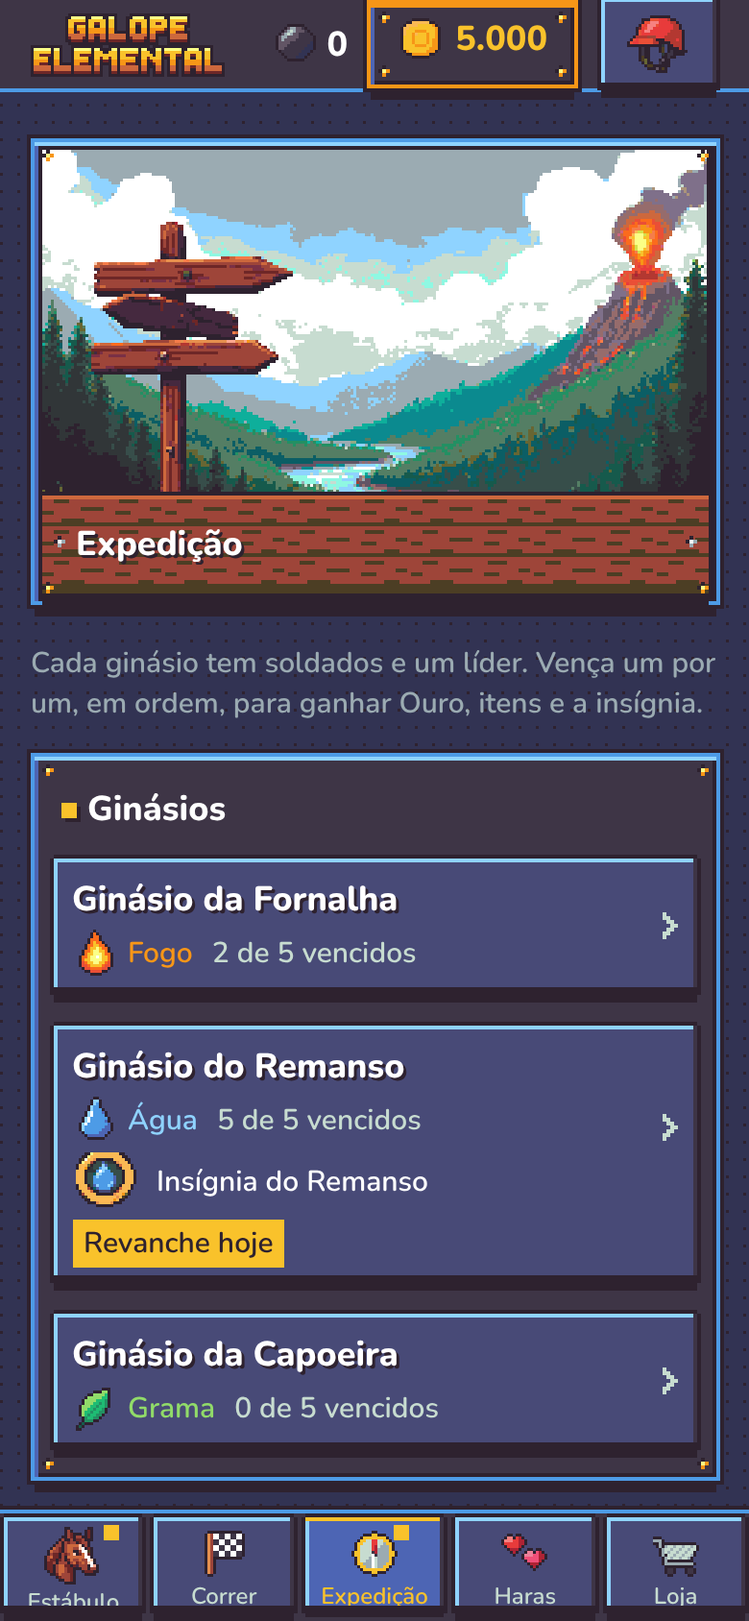
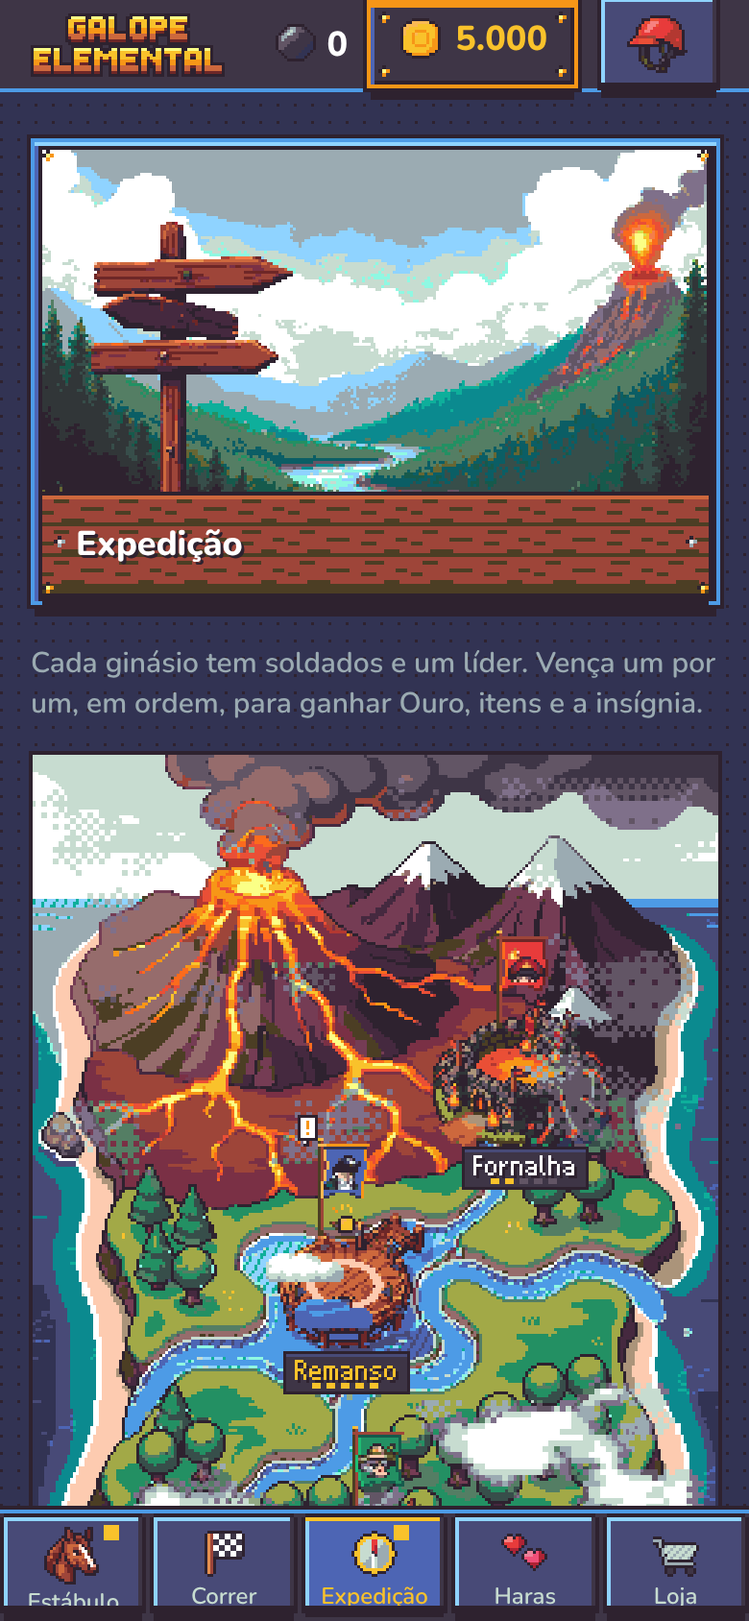
fecha o bloco A do mapa: wiki, capturas final-24 e final-25, memória e notas do plano
Claude-Session: https://claude.ai/code/session_01MGExzNonug97azLPSXwF1p

diff --git a/prototype/dist/wiki.html b/prototype/dist/wiki.html
@@ -194,7 +194,7 @@ dd.num { font: 400 var(--t-num)/1 var(--fonte-rotulo); color: var(--ouro); }
 <h3>Ciclo de uma corrida</h3>
 <ol class="passos"><li><strong>Escolher a montaria.</strong> No começo você escolhe uma das 3 iniciais (Brasa, Maré e Ipê) e recebe 500 de Ouro e o equipamento inicial (Sela de Couro Cru e Ferradura Leve, já equipado).</li><li><strong>Procurar sala.</strong> Na aba Correr você escolhe a entrada (50, 100 ou 250 de Ouro). A sala tem de 4 a 8 corredores: você e bots com Poder perto do seu. Pista, clima e rivais saem da seed da sala e não mudam até você correr.</li><li><strong>Pagar a entrada.</strong> Só depois de &quot;Largar!&quot; a corrida é simulada; o resultado nunca é calculado antes.</li><li><strong>Corrida automática.</strong> O jóquei dosa o ritmo pela estamina; skills disparam nos gatilhos; o Dado da Sorte rola em 1/3 e 2/3 da pista e pode virar o clima; a Garra decide a reta final.</li><li><strong>Prêmio e XP.</strong> A casa fica com 10% do pote e o resto vai para os primeiros colocados. Todos ganham XP pela colocação. No pódio de corrida valendo pode cair um Pergaminho de técnica (ver Skills, Rank das skills).</li></ol>
 <h3>Abas do jogo</h3>
-<dl class="pares"><dt>Estábulo</dt><dd>o cartão da recompensa do dia, no topo; suas montarias (3 vagas no começo, até 8), status, skills (com o rank de cada uma) e equipamento; escolher a ativa.</dd><dt>Correr</dt><dd>escolher a entrada (50, 100 ou 250 de Ouro) e procurar corrida; sem Ouro para a menor entrada, treino gratuito.</dd><dt>Expedição</dt><dd>os 3 ginásios (Ginásio da Fornalha, Ginásio do Remanso e Ginásio da Capoeira), cada um com quantas etapas já venceu (&quot;N de 5 vencidos&quot;), a insígnia conquistada e &quot;Revanche hoje&quot; quando a revanche do líder está livre (o ponto na aba avisa) ou &quot;Revanche amanhã&quot; depois de tentada a de hoje. Tocar no ginásio abre a trilha: as 5 etapas de baixo para cima (Soldado 1, Soldado 2, Soldado 3, Soldado 4 e o Líder), cada uma vencida, próxima (a única que se toca) ou fechada (&quot;Vença a etapa anterior&quot;), e o ponto fraco escrito (&quot;Ponto fraco: Água vence Fogo&quot;); ao abrir, a trilha rola o mínimo para a etapa que se pode tocar aparecer inteira. <strong>Preparo:</strong> a etapa próxima mostra os cavalos do adversário (nível, estrelas, elemento e Poder), a pista da casa, a entrada e o prêmio da 1ª vitória; em &quot;Seu time&quot; você toca nos seus cavalos na ordem em que vão correr, até o tamanho do time do adversário (tocar de novo tira). Cada linha diz &quot;Vantagem&quot; ou &quot;Desvantagem&quot; contra o elemento do ginásio; com uma sala de corrida aberta (valendo ou treino), o cavalo ativo fica de fora, com o motivo escrito. <strong>Pagar:</strong> &quot;Desafiar (N de Ouro)&quot; cobra a entrada e só então o desafio é simulado; sem time, sem Ouro (o reservado para a sala aberta não conta) ou com a mochila cheia do item do prêmio, o botão fica apagado com o motivo. <strong>Duelos:</strong> cada duelo passa na tela de corrida, com 2 raias: a placa diz &quot;Duelo N&quot; (nunca quantos serão), e uma linha diz a vantagem de elemento e o fôlego de quem larga cansado; &quot;Pular&quot; termina o duelo (depois da chegada ele diz &quot;Continuar&quot;) e &quot;Pular tudo&quot; vai direto ao resumo. Entre um duelo e outro, um cartão diz como foi o seu cavalo e por quantos metros, quem saiu e quem entra, a faixa do cansaço com o fôlego de quem ficou (&quot;Vitória apertada (menos de 1 m): … larga com 75% do fôlego&quot;) e a vantagem do próximo duelo, com &quot;Próximo duelo&quot; e &quot;Pular tudo&quot;. Os metros são truncados para baixo (7,6 m aparece como 7 m); abaixo de 1 m, &quot;menos de 1 m&quot;. <strong>Resumo:</strong> cada duelo com &quot;Você venceu&quot; ou &quot;Você perdeu&quot;, os metros e o fôlego de quem seguiu; a entrada, o prêmio e os itens; o XP de cada cavalo (os níveis e as skills que aprendeu, ou &quot;não correu&quot;); a insígnia e a etapa liberada. Perdendo, &quot;Tentar de novo&quot; volta ao preparo com o mesmo time; sempre há &quot;Voltar à trilha&quot;. <strong>Revanche:</strong> depois da insígnia, a etapa do líder vira a revanche, uma vez por dia: &quot;Revanche hoje&quot;, com a entrada de 50 de Ouro e o prêmio de hoje do rodízio; tentada a de hoje, a etapa diz &quot;Feita hoje&quot; e &quot;Revanche de hoje feita. Volte amanhã.&quot;, e a revanche perdida não tem &quot;Tentar de novo&quot;. <strong>Treino AFK:</strong> na trilha, cada oponente já vencido tem &quot;Treinar (AFK)&quot;, que abre a escolha do treino (oponente, dificuldade, vaga e cavalo). O cartão &quot;Treino AFK&quot; da aba abre as vagas (o cavalo, o oponente, a chance de vitória medida, a corrida em curso e a última; Assistir, Trocar e Tirar; &quot;Abrir vaga&quot; com o preço) e o baú (&quot;Coletar tudo&quot;); o cartão &quot;Bestiário&quot; abre as páginas dos ginásios (ver Corrida AFK). Embaixo, a vitrine de 6 cavalos selvagens (a captura ainda não existe no protótipo).</dd><dt>Haras</dt><dd>cruzar com um reprodutor de aluguel ou com outra montaria sua, ou fazer a Troca.</dd><dt>Loja</dt><dd>em <strong>Comprar</strong>, os itens de uso (Torrão de açúcar, Manual de doma, Cupom de troca de skill e Estrela de treino) com Ouro, um toque por compra, dentro do limite do dia; em <strong>Mochila</strong>, os 6 itens, quantos você tem de cada e o botão Usar (o Pergaminho de técnica não tem Usar: é gasto ao subir rank, na aba Skills do cavalo) e, embaixo, os itens do treino AFK por grupo (comidas, com o Usar e a escolha do cavalo; materiais; Pergaminho de reforja; troféus); também peças de equipamento (menos as de raridade Lendário) e Pedras Negras.</dd><dt>Perfil (o botão do cabeçalho)</dt><dd>as estatísticas (corridas, vitórias, pódios e prêmios), o Ouro e quantas montarias você tem; as insígnias dos ginásios (&quot;Insígnias (N de 3)&quot;, as 3 na ordem Insígnia da Fornalha, Insígnia do Remanso e Insígnia da Capoeira: a conquistada com o ícone, o nome e o bônus; a que falta apagada, com &quot;Vença o líder do …&quot;); o seu jóquei (seda e capacete); as animações; e &quot;Recomeçar com outro inicial&quot;.</dd></dl>
+<dl class="pares"><dt>Estábulo</dt><dd>o cartão da recompensa do dia, no topo; suas montarias (3 vagas no começo, até 8), status, skills (com o rank de cada uma) e equipamento; escolher a ativa.</dd><dt>Correr</dt><dd>escolher a entrada (50, 100 ou 250 de Ouro) e procurar corrida; sem Ouro para a menor entrada, treino gratuito.</dd><dt>Expedição</dt><dd>os 3 ginásios (Ginásio da Fornalha, Ginásio do Remanso e Ginásio da Capoeira), cada um com quantas etapas já venceu (&quot;N de 5 vencidos&quot;), a insígnia conquistada e &quot;Revanche hoje&quot; quando a revanche do líder está livre (o ponto na aba avisa) ou &quot;Revanche amanhã&quot; depois de tentada a de hoje. Em cima, o mapa da ilha com os três ginásios no lugar deles, vivo (água, lava, nuvens, fumaça do vulcão), com névoa sobre o que ainda não tem a insígnia (só visual) e, em cada ginásio, o estandarte do líder, as etapas vencidas, a insígnia e &quot;!&quot; na revanche livre; tocar num ginásio do mapa é o mesmo que tocar no cartão dele, e a ida e a volta são uma viagem curta (aproximação e íris; direta com movimento reduzido). Tocar no ginásio abre a trilha: as 5 etapas de baixo para cima (Soldado 1, Soldado 2, Soldado 3, Soldado 4 e o Líder), cada uma vencida, próxima (a única que se toca) ou fechada (&quot;Vença a etapa anterior&quot;), e o ponto fraco escrito (&quot;Ponto fraco: Água vence Fogo&quot;); ao abrir, a trilha rola o mínimo para a etapa que se pode tocar aparecer inteira. No mapa da trilha, a pista de terra está pintada até a etapa da vez e o seu cavalo ativo espera ao lado dela; depois de uma vitória, ao voltar para a trilha, a pista se pinta até a etapa nova e o cavalo trota até lá. <strong>Preparo:</strong> a etapa próxima mostra os cavalos do adversário (nível, estrelas, elemento e Poder), a pista da casa, a entrada e o prêmio da 1ª vitória; em &quot;Seu time&quot; você toca nos seus cavalos na ordem em que vão correr, até o tamanho do time do adversário (tocar de novo tira). Cada linha diz &quot;Vantagem&quot; ou &quot;Desvantagem&quot; contra o elemento do ginásio; com uma sala de corrida aberta (valendo ou treino), o cavalo ativo fica de fora, com o motivo escrito. <strong>Pagar:</strong> &quot;Desafiar (N de Ouro)&quot; cobra a entrada e só então o desafio é simulado; sem time, sem Ouro (o reservado para a sala aberta não conta) ou com a mochila cheia do item do prêmio, o botão fica apagado com o motivo. <strong>Duelos:</strong> cada duelo passa na tela de corrida, com 2 raias: a placa diz &quot;Duelo N&quot; (nunca quantos serão), e uma linha diz a vantagem de elemento e o fôlego de quem larga cansado; &quot;Pular&quot; termina o duelo (depois da chegada ele diz &quot;Continuar&quot;) e &quot;Pular tudo&quot; vai direto ao resumo. Entre um duelo e outro, um cartão diz como foi o seu cavalo e por quantos metros, quem saiu e quem entra, a faixa do cansaço com o fôlego de quem ficou (&quot;Vitória apertada (menos de 1 m): … larga com 75% do fôlego&quot;) e a vantagem do próximo duelo, com &quot;Próximo duelo&quot; e &quot;Pular tudo&quot;. Os metros são truncados para baixo (7,6 m aparece como 7 m); abaixo de 1 m, &quot;menos de 1 m&quot;. <strong>Resumo:</strong> cada duelo com &quot;Você venceu&quot; ou &quot;Você perdeu&quot;, os metros e o fôlego de quem seguiu; a entrada, o prêmio e os itens; o XP de cada cavalo (os níveis e as skills que aprendeu, ou &quot;não correu&quot;); a insígnia e a etapa liberada. Perdendo, &quot;Tentar de novo&quot; volta ao preparo com o mesmo time; sempre há &quot;Voltar à trilha&quot;. <strong>Revanche:</strong> depois da insígnia, a etapa do líder vira a revanche, uma vez por dia: &quot;Revanche hoje&quot;, com a entrada de 50 de Ouro e o prêmio de hoje do rodízio; tentada a de hoje, a etapa diz &quot;Feita hoje&quot; e &quot;Revanche de hoje feita. Volte amanhã.&quot;, e a revanche perdida não tem &quot;Tentar de novo&quot;. <strong>Treino AFK:</strong> na trilha, cada oponente já vencido tem &quot;Treinar (AFK)&quot;, que abre a escolha do treino (oponente, dificuldade, vaga e cavalo). O cartão &quot;Treino AFK&quot; da aba abre as vagas (o cavalo, o oponente, a chance de vitória medida, a corrida em curso e a última; Assistir, Trocar e Tirar; &quot;Abrir vaga&quot; com o preço) e o baú (&quot;Coletar tudo&quot;); o cartão &quot;Bestiário&quot; abre as páginas dos ginásios (ver Corrida AFK). Embaixo, a vitrine de 6 cavalos selvagens (a captura ainda não existe no protótipo).</dd><dt>Haras</dt><dd>cruzar com um reprodutor de aluguel ou com outra montaria sua, ou fazer a Troca.</dd><dt>Loja</dt><dd>em <strong>Comprar</strong>, os itens de uso (Torrão de açúcar, Manual de doma, Cupom de troca de skill e Estrela de treino) com Ouro, um toque por compra, dentro do limite do dia; em <strong>Mochila</strong>, os 6 itens, quantos você tem de cada e o botão Usar (o Pergaminho de técnica não tem Usar: é gasto ao subir rank, na aba Skills do cavalo) e, embaixo, os itens do treino AFK por grupo (comidas, com o Usar e a escolha do cavalo; materiais; Pergaminho de reforja; troféus); também peças de equipamento (menos as de raridade Lendário) e Pedras Negras.</dd><dt>Perfil (o botão do cabeçalho)</dt><dd>as estatísticas (corridas, vitórias, pódios e prêmios), o Ouro e quantas montarias você tem; as insígnias dos ginásios (&quot;Insígnias (N de 3)&quot;, as 3 na ordem Insígnia da Fornalha, Insígnia do Remanso e Insígnia da Capoeira: a conquistada com o ícone, o nome e o bônus; a que falta apagada, com &quot;Vença o líder do …&quot;); o seu jóquei (seda e capacete); as animações; e &quot;Recomeçar com outro inicial&quot;.</dd></dl>
 <p class="nota">Ainda não existem no protótipo: Gemas, passe, ovos, contas, servidor, as expedições fora os ginásios e a captura. A única moeda é o Ouro; as Pedras Negras são material de melhoria.</p>
 <p>Versão dos dados: <code>0.2-prototipo</code>. Este wiki é gerado do código (<code>prototype/src/</code>) por <code>prototype/tools/wiki.mjs</code>; não edite à mão.</p>
 </section>

diff --git a/docs/superpowers/plans/2026-11-24-mapa-ginasios.md b/docs/superpowers/plans/2026-11-24-mapa-ginasios.md
@@ -43,7 +43,7 @@ inteira, inclusive §3.3 (o fundo animado das trilhas é da frente 1), §4 (vist
 
 ### Tarefa A1: módulo `mapa.js` com o mundo
 **Arquivos:** criar `prototype/src/mapa.js`; `prototype/build.mjs` (`SCRIPTS`, depois de `sprites.js` e antes de `fx.js`);
-teste novo `prototype/tools/mapa-test.mjs` e uma linha no `scripts/check.sh` (etapa de testes de efeitos).
+teste novo `prototype/tools/mapa-test.js` (CommonJS, no estilo do `fx-test.js`) e uma linha no `scripts/check.sh` (etapa de testes de efeitos).
 
 **Interfaces (produz):**
 - `Mapa.mundo(arte, opts) -> { estado(progresso), atualiza(t, dt), desenha(ctx, k, ox), ginasioEm(x, y), posicao(id) }`;
@@ -51,47 +51,47 @@ teste novo `prototype/tools/mapa-test.mjs` e uma linha no `scripts/check.sh` (et
 - Puros e testáveis no Node: `Mapa.nevoaDe(progresso)` (intensidade por ginásio), `Mapa.marcadores(progresso)` (estandarte,
   insígnia, "!"), `Mapa.rng(semente)`.
 
-- [ ] **Passo 1:** testes no `mapa-test.mjs`: névoa cheia sem vitórias, mais rala com etapas vencidas, nenhuma com a insígnia;
+- [x] **Passo 1:** testes no `mapa-test.mjs`: névoa cheia sem vitórias, mais rala com etapas vencidas, nenhuma com a insígnia;
   "!" só com a revanche livre hoje; `ginasioEm` acerta os três ginásios e erra fora deles; nenhuma chamada a `Math.random`
   (varredura do fonte, como o `moldes-test` faz com o `marcas.js`).
-- [ ] **Passo 2:** portar da amostra só a variante escolhida (ilha B pintada, `terreno-s9901`), sem a v1 por código, sem o
+- [x] **Passo 2:** portar da amostra só a variante escolhida (ilha B pintada, `terreno-s9901`), sem a v1 por código, sem o
   mapa de peças e sem o medidor: ciclo de cor de mar, rio e lava (listas de pixels ativos, 12 fps), copas em faixas de 24 px,
   fumaça e bombas do vulcão, nuvens com sombra (troca "escurecer"), pássaros, espuma, névoa 2 × 2 "lavada", estandartes,
   insígnia e "!".
-- [ ] **Passo 3:** `node prototype/tools/mapa-test.mjs` passa. Commit "adiciona o módulo de desenho do mapa dos ginásios".
+- [x] **Passo 3:** `node prototype/tools/mapa-test.mjs` passa. Commit "adiciona o módulo de desenho do mapa dos ginásios".
 
 ### Tarefa A2: a arte do mapa no build
 **Arquivos:** `prototype/tools/arte-embutida.mjs` (`lerMapaMundo`); `prototype/build.mjs` (`window.__MAPA_MUNDO`);
 `prototype/tools/moldes-test.mjs` (teste da arte embutida).
 
-- [ ] **Passo 1:** `lerMapaMundo(root)` devolve `{ terreno, ginasios: { fogo, agua, grama } }` em data URL, a partir de
+- [x] **Passo 1:** `lerMapaMundo(root)` devolve `{ terreno, ginasios: { fogo, agua, grama } }` em data URL, a partir de
   `assets/arte/mapa-mundo/terreno/terreno-s9901.png` e `ginasios/ginasio-{fogo-s9921,agua-s9932,grama-s9953-00}.png`.
   Teste: tamanhos (256 × 384; 64 × 64), só cores da Resurrect 64, alfa binário.
-- [ ] **Passo 2:** o build embute nos dois `jogo*.html` e no `preview.html`. Conferir o tamanho final do `jogo.html`
+- [x] **Passo 2:** o build embute nos dois `jogo*.html` e no `preview.html`. Conferir o tamanho final do `jogo.html`
   (anotar no commit). Commit "embute a arte do mapa-múndi no build".
 
 ### Tarefa A3: o mapa na aba Expedição
 **Arquivos:** `prototype/src/game.js` (`renderExpedicao`, hidratação, um `drawMapaMundo(cv)` ao lado de `drawMapaTrilha`);
 `prototype/src/game.css`; `prototype/tools/ui-test.mjs` (bloco novo `expedicao-mapa`).
 
-- [ ] **Passo 1:** palco do mapa acima da lista de ginásios, na grade inteira da interface (`setupCanvasGrade`,
+- [x] **Passo 1:** palco do mapa acima da lista de ginásios, na grade inteira da interface (`setupCanvasGrade`,
   `larguraTela` para o corte lateral a 360 px). Tocar num ginásio do mapa dispara o mesmo `data-acao="ginasio-abrir"` do
   cartão. `aria-label` com o estado dos três ("Fornalha: 2 de 5, revanche hoje; …").
-- [ ] **Passo 2:** o laço: o `vivo()` de hoje desenha a ~14 q/s (70 ms). O mapa usa esse ritmo parado; durante a transição
+- [x] **Passo 2:** o laço: o `vivo()` de hoje desenha a ~14 q/s (70 ms). O mapa usa esse ritmo parado; durante a transição
   (A4) o item marca `rapido = true` e o `loop` desenha esse item a cada quadro até a transição acabar.
-- [ ] **Passo 3:** bloco `expedicao-mapa` no `ui-test`: canvas presente com `data-arte`, três alvos tocáveis que abrem a
+- [x] **Passo 3:** bloco `expedicao-mapa` no `ui-test`: canvas presente com `data-arte`, três alvos tocáveis que abrem a
   trilha certa, a lista de cartões continua, nada rola de lado a 360 px, custo de quadro medido (média < 0,35 ms).
-- [ ] **Passo 4:** commit "mostra o mapa-múndi na aba Expedição".
+- [x] **Passo 4:** commit "mostra o mapa-múndi na aba Expedição".
 
 ### Tarefa A4: a viagem até o ginásio e a volta
 **Arquivos:** `prototype/src/mapa.js` (`Mapa.transicao`); `prototype/src/game.js` (`ginasio-abrir`, `ginasio-voltar`).
 
-- [ ] **Passo 1:** entrar: zoom inteiro 1× → 2× → 3× (0,12 s cada) sobre o ginásio, íris na cor do elemento até 0,5 s, tela
+- [x] **Passo 1:** entrar: zoom inteiro 1× → 2× → 3× (0,12 s cada) sobre o ginásio, íris na cor do elemento até 0,5 s, tela
   cheia na cor por 0,08 s, troca para a trilha e íris abrindo em volta do cavalo (0,4 s). Voltar: o inverso (~0,9 s). A troca
   de tela (`go('ginasio')`) acontece no meio, com a íris fechada; o foco vai para o título da tela nova, como hoje, e o
   leitor de tela recebe o aviso curto (spec §8).
-- [ ] **Passo 2:** movimento reduzido: troca direta, sem transição. Um toque durante a transição não abre outra.
-- [ ] **Passo 3:** `ui-test`: entrar e voltar terminam na tela certa com e sem movimento reduzido; teclado (Enter no cartão)
+- [x] **Passo 2:** movimento reduzido: troca direta, sem transição. Um toque durante a transição não abre outra.
+- [x] **Passo 3:** `ui-test`: entrar e voltar terminam na tela certa com e sem movimento reduzido; teclado (Enter no cartão)
   faz o mesmo caminho. Commit "anima a ida e a volta do ginásio".
 
 ### Tarefa A5: a trilha nova
@@ -102,16 +102,16 @@ teste novo `prototype/tools/mapa-test.mjs` e uma linha no `scripts/check.sh` (et
 desenha(ctx, k, ox), mascaraCaminho() }`. **Consome (opcional):** `window.Ambiente.cena('mapa:<elemento>')` da frente 1
 (`atualiza`, `desenha(ctx, { x0, x1, y0: 0, y1: 384 })`, `parada(ctx)`); sem ela, a imagem parada do mapa de hoje.
 
-- [ ] **Passo 1:** pista Catmull-Rom com comprimento de arco pelas paradas da amostra; tiles de 7 px com borda recortada;
+- [x] **Passo 1:** pista Catmull-Rom com comprimento de arco pelas paradas da amostra; tiles de 7 px com borda recortada;
   trecho vencido como chão pisado; ponte de tábuas no Remanso; bases de pedra; treinadores (corpo 1:1) com sombra;
   estandarte do líder; o cavalo ativo (molde parado, 1 px de trote) ao lado da próxima parada, virado para ela. **Sem**
   ciclo de cor (é da frente 1).
-- [ ] **Passo 2:** pintar ao vencer: o `game.js` guarda em `ui` (não no save) o último progresso que a trilha mostrou;
+- [x] **Passo 2:** pintar ao vencer: o `game.js` guarda em `ui` (não no save) o último progresso que a trilha mostrou;
   ao abrir com progresso maior, a pista se pinta desse ponto até o novo (~1 s) e o cavalo trota. Recarregar mostra a
   trilha pronta (sem animação), nunca errada.
-- [ ] **Passo 3:** `mascaraCaminho()` (256 × 384, 1 = pista) para a frente 1; teste no `mapa-test.mjs` (a máscara cobre
+- [x] **Passo 3:** `mascaraCaminho()` (256 × 384, 1 = pista) para a frente 1; teste no `mapa-test.mjs` (a máscara cobre
   todas as paradas e é a mesma curva da pintura).
-- [ ] **Passo 4:** `ui-test`: os estados (Vencida, Próxima, Fechada, Revanche hoje, Feita hoje) batem com o texto dos
+- [x] **Passo 4:** `ui-test`: os estados (Vencida, Próxima, Fechada, Revanche hoje, Feita hoje) batem com o texto dos
   botões; depois de vencer o Recruta, a pista vai até o Cabo; com a insígnia, a pista inteira; custo de quadro < 0,35 ms.
   Commit "desenha a trilha com a pista que se pinta e o cavalo ativo".
 
@@ -180,6 +180,15 @@ e os JSONs dos 12 moldes; `prototype/tools/arte-embutida.mjs` (`lerMoldes`); `pr
 - [ ] **Passo 1:** captura oficial `final-26b-cena-desafio.png` (e `final-26-desafio.png`, se mudar); conferir a 360 px.
 - [ ] **Passo 2:** `node prototype/build.mjs` e `./scripts/check.sh` completos, com o resultado no relatório.
 - [ ] **Passo 3:** memória, `assets.md` e aviso à coordenação (para a integração na `main` e a republicação do jogo).
+
+## Notas da execução
+- 2026-11-24, bloco A: A5 foi feita antes de A4 (a volta da viagem precisa da trilha nova). Custo do mapa-múndi medido no
+  `ui-test` (Chromium sem placa de vídeo, laço do jogo a ~14 q/s): ~0,9 ms por quadro desenhado (+ ~0,26 ms da cópia
+  ampliada); para chegar lá, o ciclo de cor do mundo foi para 8 passos/s, a névoa para 3 passos/s calculada por bloco de 2 × 2
+  e enviada só na faixa onde existe, e a água só percorre os pixels que podem mudar. A 60 q/s (como a amostra media) o
+  quadro fica em ~0,4 ms. O teto de 0,35 ms da spec era da amostra; a régua do teste ficou em 1,2 ms.
+- A viagem troca de tela por relógio (não depende do desenho); um toque durante a viagem é ignorado; com o mapa fora da
+  tela, ou com movimento reduzido, a troca é direta.
 
 ## Fora deste plano
 - O fundo animado dentro das trilhas (frente 1, depois do bloco A).

diff --git a/docs/wiki.md b/docs/wiki.md
@@ -42,7 +42,7 @@
 
 - **Estábulo:** o cartão da recompensa do dia, no topo; suas montarias (3 vagas no começo, até 8), status, skills (com o rank de cada uma) e equipamento; escolher a ativa.
 - **Correr:** escolher a entrada (50, 100 ou 250 de Ouro) e procurar corrida; sem Ouro para a menor entrada, treino gratuito.
-- **Expedição:** os 3 ginásios (Ginásio da Fornalha, Ginásio do Remanso e Ginásio da Capoeira), cada um com quantas etapas já venceu ("N de 5 vencidos"), a insígnia conquistada e "Revanche hoje" quando a revanche do líder está livre (o ponto na aba avisa) ou "Revanche amanhã" depois de tentada a de hoje. Tocar no ginásio abre a trilha: as 5 etapas de baixo para cima (Soldado 1, Soldado 2, Soldado 3, Soldado 4 e o Líder), cada uma vencida, próxima (a única que se toca) ou fechada ("Vença a etapa anterior"), e o ponto fraco escrito ("Ponto fraco: Água vence Fogo"); ao abrir, a trilha rola o mínimo para a etapa que se pode tocar aparecer inteira. **Preparo:** a etapa próxima mostra os cavalos do adversário (nível, estrelas, elemento e Poder), a pista da casa, a entrada e o prêmio da 1ª vitória; em "Seu time" você toca nos seus cavalos na ordem em que vão correr, até o tamanho do time do adversário (tocar de novo tira). Cada linha diz "Vantagem" ou "Desvantagem" contra o elemento do ginásio; com uma sala de corrida aberta (valendo ou treino), o cavalo ativo fica de fora, com o motivo escrito. **Pagar:** "Desafiar (N de Ouro)" cobra a entrada e só então o desafio é simulado; sem time, sem Ouro (o reservado para a sala aberta não conta) ou com a mochila cheia do item do prêmio, o botão fica apagado com o motivo. **Duelos:** cada duelo passa na tela de corrida, com 2 raias: a placa diz "Duelo N" (nunca quantos serão), e uma linha diz a vantagem de elemento e o fôlego de quem larga cansado; "Pular" termina o duelo (depois da chegada ele diz "Continuar") e "Pular tudo" vai direto ao resumo. Entre um duelo e outro, um cartão diz como foi o seu cavalo e por quantos metros, quem saiu e quem entra, a faixa do cansaço com o fôlego de quem ficou ("Vitória apertada (menos de 1 m): … larga com 75% do fôlego") e a vantagem do próximo duelo, com "Próximo duelo" e "Pular tudo". Os metros são truncados para baixo (7,6 m aparece como 7 m); abaixo de 1 m, "menos de 1 m". **Resumo:** cada duelo com "Você venceu" ou "Você perdeu", os metros e o fôlego de quem seguiu; a entrada, o prêmio e os itens; o XP de cada cavalo (os níveis e as skills que aprendeu, ou "não correu"); a insígnia e a etapa liberada. Perdendo, "Tentar de novo" volta ao preparo com o mesmo time; sempre há "Voltar à trilha". **Revanche:** depois da insígnia, a etapa do líder vira a revanche, uma vez por dia: "Revanche hoje", com a entrada de 50 de Ouro e o prêmio de hoje do rodízio; tentada a de hoje, a etapa diz "Feita hoje" e "Revanche de hoje feita. Volte amanhã.", e a revanche perdida não tem "Tentar de novo". **Treino AFK:** na trilha, cada oponente já vencido tem "Treinar (AFK)", que abre a escolha do treino (oponente, dificuldade, vaga e cavalo). O cartão "Treino AFK" da aba abre as vagas (o cavalo, o oponente, a chance de vitória medida, a corrida em curso e a última; Assistir, Trocar e Tirar; "Abrir vaga" com o preço) e o baú ("Coletar tudo"); o cartão "Bestiário" abre as páginas dos ginásios (ver Corrida AFK). Embaixo, a vitrine de 6 cavalos selvagens (a captura ainda não existe no protótipo).
+- **Expedição:** os 3 ginásios (Ginásio da Fornalha, Ginásio do Remanso e Ginásio da Capoeira), cada um com quantas etapas já venceu ("N de 5 vencidos"), a insígnia conquistada e "Revanche hoje" quando a revanche do líder está livre (o ponto na aba avisa) ou "Revanche amanhã" depois de tentada a de hoje. Em cima, o mapa da ilha com os três ginásios no lugar deles, vivo (água, lava, nuvens, fumaça do vulcão), com névoa sobre o que ainda não tem a insígnia (só visual) e, em cada ginásio, o estandarte do líder, as etapas vencidas, a insígnia e "!" na revanche livre; tocar num ginásio do mapa é o mesmo que tocar no cartão dele, e a ida e a volta são uma viagem curta (aproximação e íris; direta com movimento reduzido). Tocar no ginásio abre a trilha: as 5 etapas de baixo para cima (Soldado 1, Soldado 2, Soldado 3, Soldado 4 e o Líder), cada uma vencida, próxima (a única que se toca) ou fechada ("Vença a etapa anterior"), e o ponto fraco escrito ("Ponto fraco: Água vence Fogo"); ao abrir, a trilha rola o mínimo para a etapa que se pode tocar aparecer inteira. No mapa da trilha, a pista de terra está pintada até a etapa da vez e o seu cavalo ativo espera ao lado dela; depois de uma vitória, ao voltar para a trilha, a pista se pinta até a etapa nova e o cavalo trota até lá. **Preparo:** a etapa próxima mostra os cavalos do adversário (nível, estrelas, elemento e Poder), a pista da casa, a entrada e o prêmio da 1ª vitória; em "Seu time" você toca nos seus cavalos na ordem em que vão correr, até o tamanho do time do adversário (tocar de novo tira). Cada linha diz "Vantagem" ou "Desvantagem" contra o elemento do ginásio; com uma sala de corrida aberta (valendo ou treino), o cavalo ativo fica de fora, com o motivo escrito. **Pagar:** "Desafiar (N de Ouro)" cobra a entrada e só então o desafio é simulado; sem time, sem Ouro (o reservado para a sala aberta não conta) ou com a mochila cheia do item do prêmio, o botão fica apagado com o motivo. **Duelos:** cada duelo passa na tela de corrida, com 2 raias: a placa diz "Duelo N" (nunca quantos serão), e uma linha diz a vantagem de elemento e o fôlego de quem larga cansado; "Pular" termina o duelo (depois da chegada ele diz "Continuar") e "Pular tudo" vai direto ao resumo. Entre um duelo e outro, um cartão diz como foi o seu cavalo e por quantos metros, quem saiu e quem entra, a faixa do cansaço com o fôlego de quem ficou ("Vitória apertada (menos de 1 m): … larga com 75% do fôlego") e a vantagem do próximo duelo, com "Próximo duelo" e "Pular tudo". Os metros são truncados para baixo (7,6 m aparece como 7 m); abaixo de 1 m, "menos de 1 m". **Resumo:** cada duelo com "Você venceu" ou "Você perdeu", os metros e o fôlego de quem seguiu; a entrada, o prêmio e os itens; o XP de cada cavalo (os níveis e as skills que aprendeu, ou "não correu"); a insígnia e a etapa liberada. Perdendo, "Tentar de novo" volta ao preparo com o mesmo time; sempre há "Voltar à trilha". **Revanche:** depois da insígnia, a etapa do líder vira a revanche, uma vez por dia: "Revanche hoje", com a entrada de 50 de Ouro e o prêmio de hoje do rodízio; tentada a de hoje, a etapa diz "Feita hoje" e "Revanche de hoje feita. Volte amanhã.", e a revanche perdida não tem "Tentar de novo". **Treino AFK:** na trilha, cada oponente já vencido tem "Treinar (AFK)", que abre a escolha do treino (oponente, dificuldade, vaga e cavalo). O cartão "Treino AFK" da aba abre as vagas (o cavalo, o oponente, a chance de vitória medida, a corrida em curso e a última; Assistir, Trocar e Tirar; "Abrir vaga" com o preço) e o baú ("Coletar tudo"); o cartão "Bestiário" abre as páginas dos ginásios (ver Corrida AFK). Embaixo, a vitrine de 6 cavalos selvagens (a captura ainda não existe no protótipo).
 - **Haras:** cruzar com um reprodutor de aluguel ou com outra montaria sua, ou fazer a Troca.
 - **Loja:** em **Comprar**, os itens de uso (Torrão de açúcar, Manual de doma, Cupom de troca de skill e Estrela de treino) com Ouro, um toque por compra, dentro do limite do dia; em **Mochila**, os 6 itens, quantos você tem de cada e o botão Usar (o Pergaminho de técnica não tem Usar: é gasto ao subir rank, na aba Skills do cavalo) e, embaixo, os itens do treino AFK por grupo (comidas, com o Usar e a escolha do cavalo; materiais; Pergaminho de reforja; troféus); também peças de equipamento (menos as de raridade Lendário) e Pedras Negras.
 - **Perfil (o botão do cabeçalho):** as estatísticas (corridas, vitórias, pódios e prêmios), o Ouro e quantas montarias você tem; as insígnias dos ginásios ("Insígnias (N de 3)", as 3 na ordem Insígnia da Fornalha, Insígnia do Remanso e Insígnia da Capoeira: a conquistada com o ícone, o nome e o bônus; a que falta apagada, com "Vença o líder do …"); o seu jóquei (seda e capacete); as animações; e "Recomeçar com outro inicial".

diff --git a/docs/memoria/ESTADO.md b/docs/memoria/ESTADO.md
@@ -66,7 +66,12 @@ A Brasa (padrao-chamas) também foi refeita pelos papéis (30; saldo 45): os 12 
 na v1, cena de 256 × 160, crina cheia aceita, plano começando pelo mapa e pela trilha). Âncoras das vistas de frente e de costas (`meshy-ancoras.json`, script `arte-desafio-ancoras.mjs`) entregues à frente 1,
 que já ligou o `IdleMolde` a elas (claude/animacao-ambiente, 7bf5977). **Spec aprovada pelo Vinicius (2026-11-24).** Plano: `docs/superpowers/plans/2026-11-24-mapa-ginasios.md` (bloco A: mapa,
 transição e trilha, sem custo; bloco B: vistas de frente e de costas nos moldes, chão por elemento e a cena), aguardando
-aprovação. `main` (e157f3f5) trazida para o ramo. Lote dos 12 cavalos segue não aprovado.
+aprovação. `main` (e157f3f5) trazida para o ramo. **Plano aprovado pelo Vinicius (2026-11-24); bloco A implementado:**
+`prototype/src/mapa.js` (mundo, trilha, viagem; testes em `prototype/tools/mapa-test.js`, no `check.sh`), arte do mapa no
+build (`window.__MAPA_MUNDO`, +35 KB), mapa-múndi na aba Expedição (acima dos cartões; tocar = cartão), viagem com zoom e
+íris, trilha com a pista que se pinta e o cavalo ativo (o fundo animado das trilhas fica com a frente 1, por
+`window.Ambiente.cena('mapa:<el>')`, com a máscara do caminho), bloco `expedicao-mapa` no `ui-test`, capturas final-24 e
+final-25 novas. Próximo: bloco B (cena de desafio). Lote dos 12 cavalos segue não aprovado.
 Depois: spec em `docs/superpowers/specs/` e plano. A spec da animação (frente 1) já lista os mapas das trilhas no §3.4;
 o ambiente das trilhas fica com ela, e o mapa-múndi e a trilha de terra com esta frente.
 

diff --git a/docs/memoria/decisoes.md b/docs/memoria/decisoes.md
@@ -11,6 +11,14 @@ Formato: **decisão** — motivo. A mais nova fica no topo. O detalhe de cada fr
 - **Inpaint do PixelLab no chão ajuda pouco** (terra escura que parece buraco); o contato por código fica.
 - **Canva só como referência de fundo**: o conector devolve prévias; o tamanho cheio exige exportar no Canva.
 
+## 2026-11-24 — Mapa dos ginásios, bloco A (implementação)
+- O ciclo de cor do mapa-múndi a 8 passos/s e a névoa a 3 passos/s (por bloco de 2 × 2). · No laço do jogo (~14 q/s) cada
+  quadro juntava o trabalho de vários; assim o desenho cai de ~1,4 para ~0,9 ms sem placa de vídeo, sem perda visível.
+- A viagem troca de tela por relógio e ignora toques no meio. · Não depende de o canvas estar visível nem trava a tela.
+- A trilha lembra, na sessão, a última etapa que mostrou; ao voltar depois de vencer, pinta desse ponto até o novo.
+  Recarregar mostra a trilha pronta. · Nada vai para o save (spec: só desenho).
+- O ciclo de cor das trilhas saiu do código desta frente. · O fundo animado das trilhas é da frente 1 (combinado).
+
 ## 2026-11-24 — Lote do Meshy: um modelo por molde, a partir dos papéis
 - Cada molde vira um modelo 3D gerado da imagem em cores puras por papel; o render devolve os papéis (formato dos moldes) e
   o jogo recolore. · A recoloração do jogo continua valendo e o lote cai de ~360 para ~330 créditos para 11 moldes.
